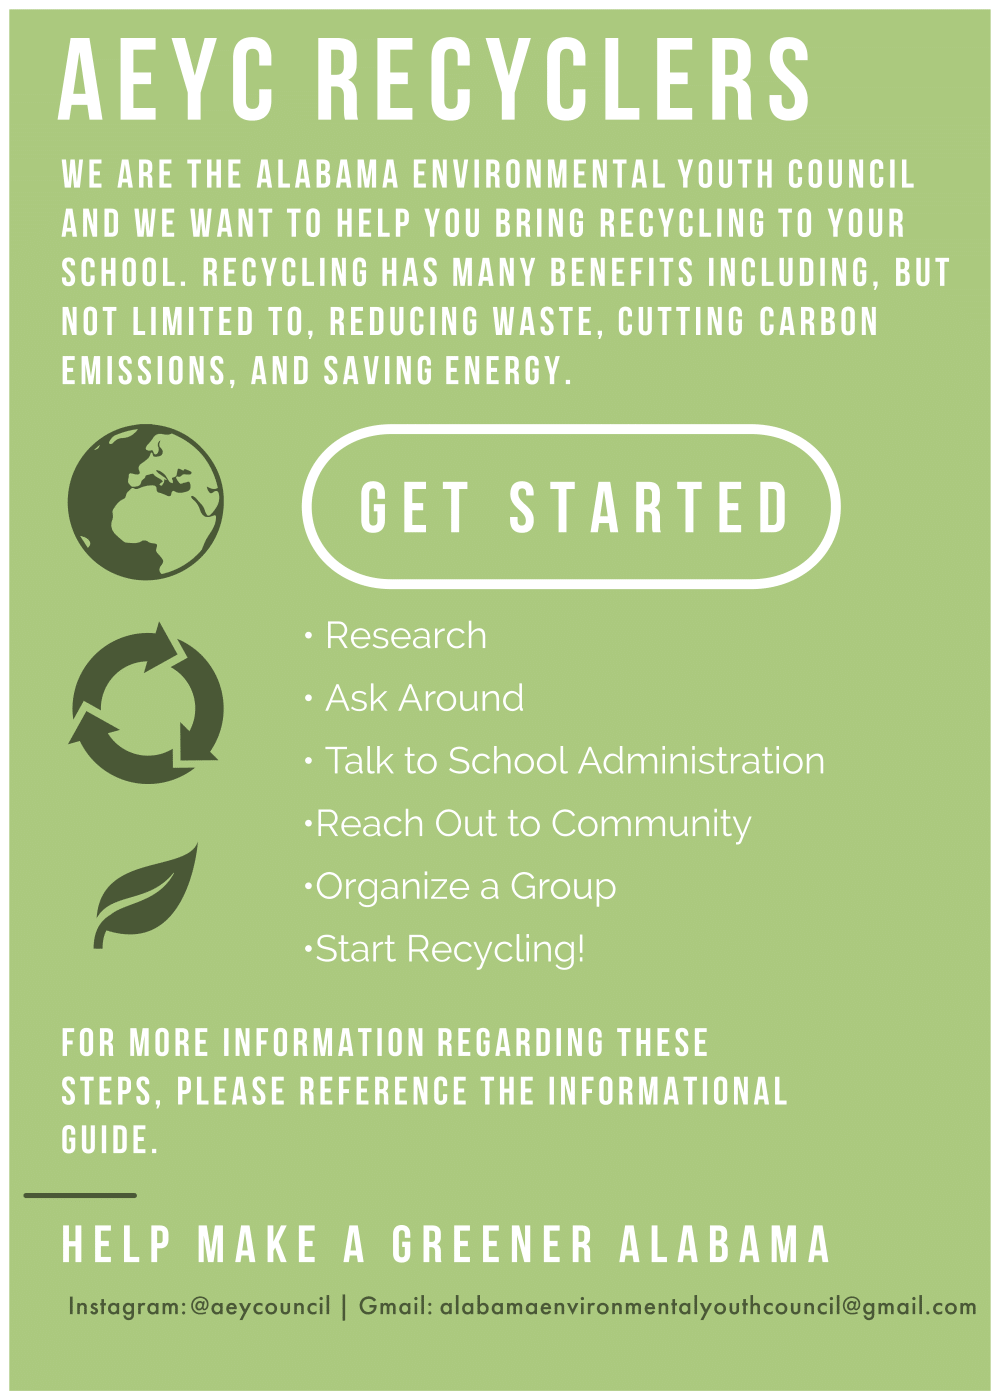
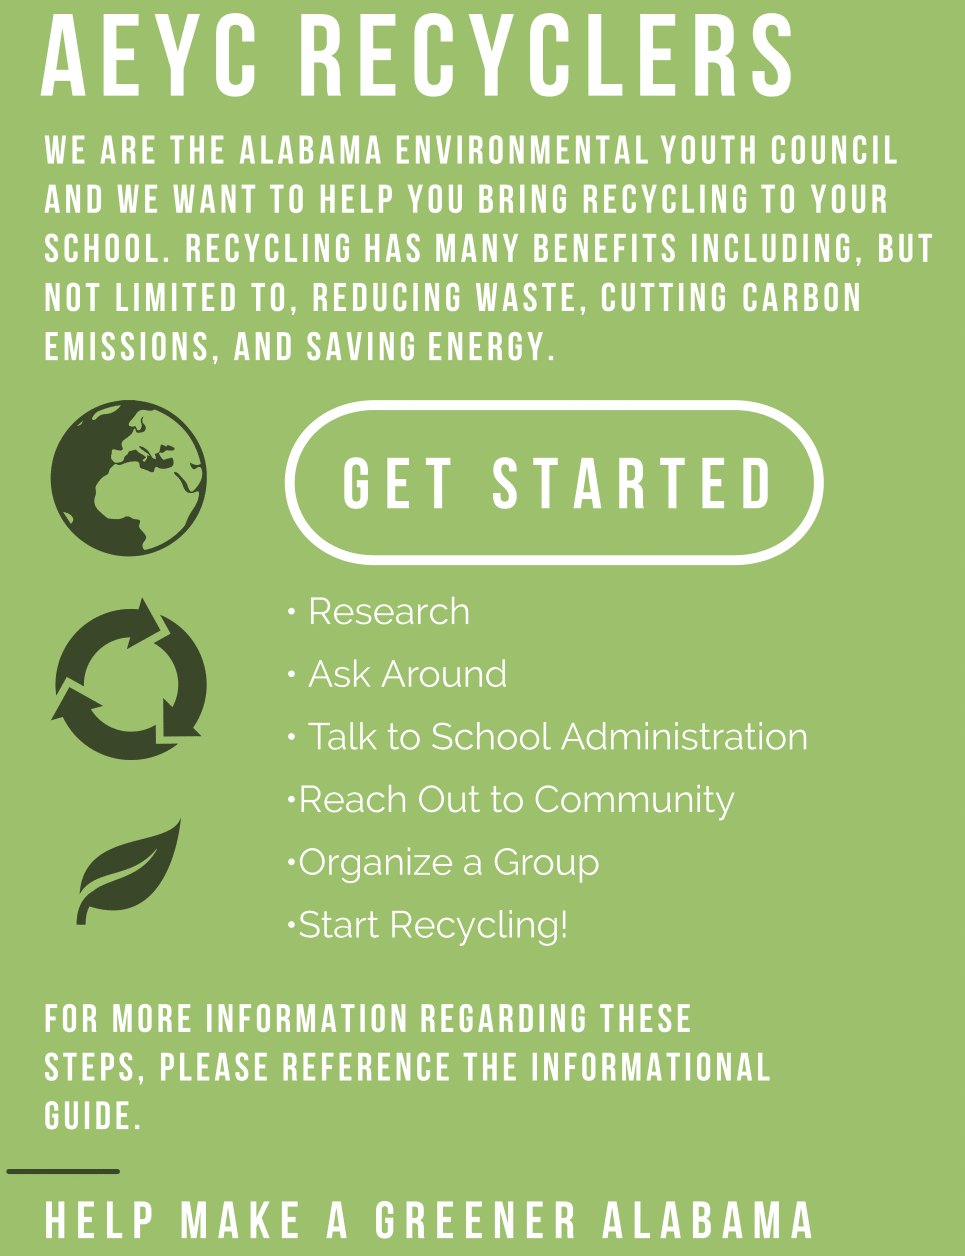
fixed email

Changed region(s): [[0.0, 0.0, 1.0, 1.0]]

diff --git a/initiatives.html b/initiatives.html
@@ -59,12 +59,16 @@
         <a href="https://docs.google.com/presentation/d/1BhENif-pKAxOMoMggqCPfStU4flrtMyQM8gnSMcICOA/edit?usp=sharing" target="_blank"> Recycling Presentation</a>
        </li>
     </ul>  </div>
+    
      <img src="pics/recycle.png" class="d-none d-sm-block" id="recycle">
-    </section>
+        </section>
+   
     
+    <div class="col-6" id="fly"> 
+      <img src="pics/flyer.png" class="img-fluid d-none d-sm-block" id="flyer">
+      <img src="pics/recycle.png" class="d-block d-sm-none" id="flyer2">
+    </div>
     
-    <img src="pics/flyer.png" class="col img-fluid d-none d-sm-block" id="flyer">
-    <img src="pics/recycle.png" class="d-block d-sm-none" id="flyer2">
  
    </div> <!-- end of main info -->
 

diff --git a/initiatives.css b/initiatives.css
@@ -4,6 +4,7 @@ body {
 
 #main_content {
 	background-color: #859871;
+	align-items: flex-start;
 }
 
 #our {
@@ -54,14 +55,15 @@ li {
 	padding-bottom: 10%;
 }
 #flyer {
-	padding-bottom: 10px;
-	padding-top: 10px;
 	max-height: 100%;
+	border: 5px solid white;
 }
 hr {
 	padding-bottom: 10px;
 }
-
+#fly {
+	align-items: flex-start;
+}
 
 
 /* XL */
@@ -129,7 +131,6 @@ hr {
 	}
 	#flyer {
 	margin-top: 20px;
-	padding-top: 10px;
 	width: 240px;
 	height: 380px;
 	}
